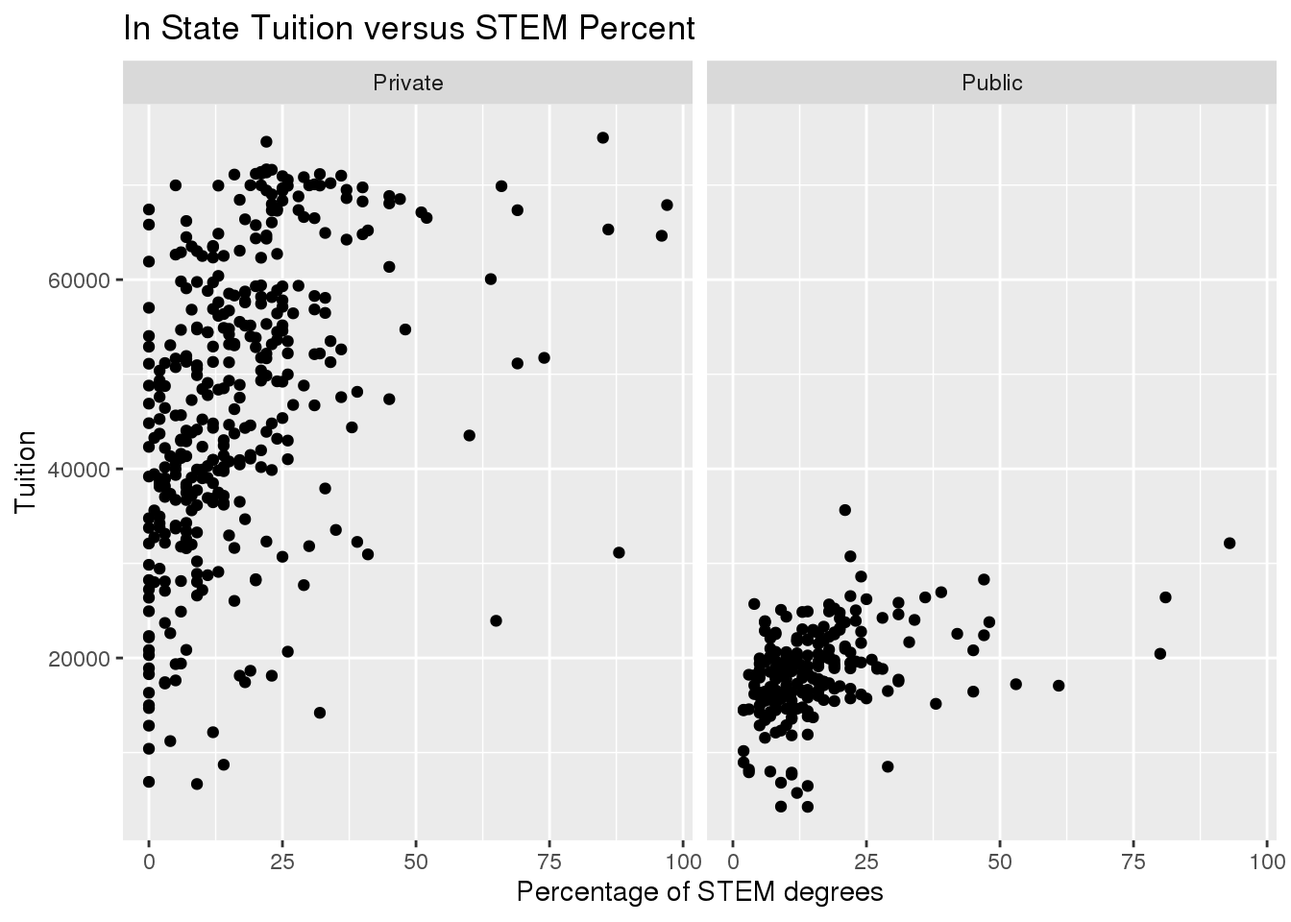
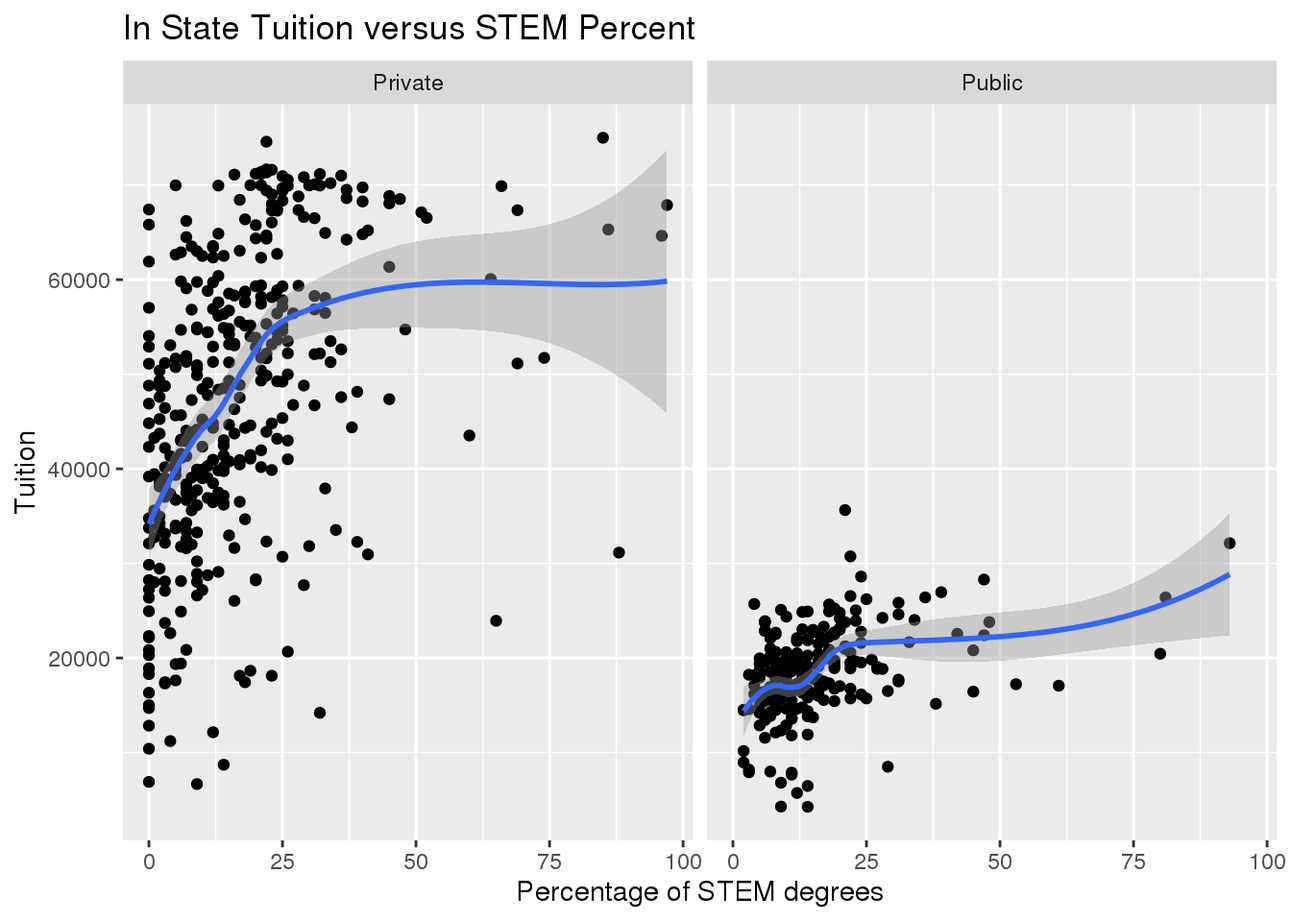
fixed spelling errors

Changed region(s): [[0.0938, 0.1562, 0.5312, 0.5938], [0.5625, 0.5625, 0.9688, 0.7812]]

diff --git a/public/2020/12/06/college-tuition-data-exploration/index.html b/public/2020/12/06/college-tuition-data-exploration/index.html
@@ -64,7 +64,7 @@
 
   <article class="article">
     
-    <span class="article-duration">12 min read</span>
+    <span class="article-duration">13 min read</span>
     
 
     <h1 class="article-title">College Tuition Data Exploration</h1>
@@ -84,7 +84,7 @@
 </div>
 <div id="introduction" class="section level2">
 <h2>Introduction</h2>
-<p>This data is Tidytuesday Data from github. However, this specific data came originally came from the U.S. Department of Education. The tuition data came from <a href="https://www.tuitiontracker.org/">TuitionTracker.org</a> and the salary data comes from <a href="https://www.payscale.com/college-salary-report/best-schools-by-state/bachelors/new-hampshire">Payscale.com</a>. Overall this data breaks down colleges and their costs while also looking at the type of institution, degree length, and salary potential. For this data I want to explore what impacts the cost of a college and the if college truly counts as an investment. To test these hypotheses I have formulate a few spefic questions to test:</p>
+<p>This data is Tidytuesday Data from github. However, this specific data came originally came from the U.S. Department of Education. The tuition data came from <a href="https://www.tuitiontracker.org/">TuitionTracker.org</a> and the salary data comes from <a href="https://www.payscale.com/college-salary-report/best-schools-by-state/bachelors/new-hampshire">Payscale.com</a>. Overall this data breaks down colleges and their costs while also looking at the type of institution, degree length, and salary potential. For this data I want to explore what impacts the cost of a college and the if college truly counts as an investment. To test these hypotheses I have formulate a few specific questions to test:</p>
 <ol style="list-style-type: decimal">
 <li><p>Is expensive tuition worth the investment?</p></li>
 <li><p>Is private school actually more expensive?</p></li>
@@ -93,11 +93,12 @@
 </div>
 <div id="exploratory-data-analysis" class="section level2">
 <h2>Exploratory Data Analysis</h2>
-<p>To explore the data I looked at all the data sets and narrowed down the two that I will be using to answer my questions. The two data sets are tuition_cost and salary_potential. First looking at the tuition_cost data. This data set has 2,973 observations with 10 variables. The name variable gives the name of the college or university. The state that the college is located in is found either by name in the state variable or by the two letter abreviation in the state_code variable. The type variable describes the type of college as either Public, Private, or For Profit. The degree_length variable classifies each as either a 2 or 4 year degree. The room_and_board variable gives the cost in dollars for room and board. Then the in_state_tuition and out_of_state_tuition gives the price in dollars for tuition. The in_state_total and out_of_state_total variables give the total cost of tuition by adding the restpective tuition to the room and board variable. The next data set that I will be using is the salary_potential.csv data. This data has 935 observations and 7 variables. The name variable gives the name of the school. The state_name variable gives the name of the state that the college is in and the rank variable gives the ranking for each school within their state. The early_career_pay variable gives the median salary (in dollars) for alumni with 0-5 years of experience. The mid_career_pay variable gives the median salary (in dollars) for alumni with 10 or more years of experience. The make_world_better_percent variable tells the percentage of alumni that say that their work makes the world a better place. Finally the stem_percent variable gives the percentage of degrees awarded in STEM fields.</p>
-<p>While exploring these data sets I noticed that there is a split between the total cost and tuition rates in the tuiton_cost data. The total cost gives the tuition plus the expenses for room and board. Another key fact about the data set is the fact that it gives different values for in state or out of state students. Consistently the cost for out of state students is higher than the cost for in state students. This trend can be shown in the figure below.</p>
+<p>To explore the data I looked at all the data sets and narrowed down the two that I will be using to answer my questions. The two data sets are tuition_cost and salary_potential. First looking at the tuition_cost data. This data set has 2,973 observations with 10 variables. The name variable gives the name of the college or university. The state that the college is located in is found either by name in the state variable or by the two letter abbreviation in the state_code variable. The type variable describes the type of college as either Public, Private, or For Profit. For profit refers to schools that sell education for profit. Because most of the trends I am concerned just relate to public versus private I will filter out these schools. The degree_length variable classifies each as either a 2 or 4 year degree. The room_and_board variable gives the cost in dollars for room and board. Then the in_state_tuition and out_of_state_tuition gives the price in dollars for tuition. The in_state_total and out_of_state_total variables give the total cost of tuition by adding the respective tuition to the room and board variable. The next data set that I will be using is the salary_potential.csv data. This data has 935 observations and 7 variables. The name variable gives the name of the school. The state_name variable gives the name of the state that the college is in and the rank variable gives the ranking for each school within their state. The early_career_pay variable gives the median salary (in dollars) for alumni with 0-5 years of experience. The mid_career_pay variable gives the median salary (in dollars) for alumni with 10 or more years of experience. The make_world_better_percent variable tells the percentage of alumni that say that their work makes the world a better place. Finally the stem_percent variable gives the percentage of degrees awarded in STEM fields.</p>
+<p>While exploring these data sets I noticed that there is a split between the total cost and tuition rates in the tuition_cost data. The total cost gives the tuition plus the expenses for room and board. Another key fact about the data set is the fact that it gives different values for in state or out of state students. Consistently the cost for out of state students is higher than the cost for in state students. This trend can be shown in the figure below.</p>
 <pre class="r"><code>library(tidyverse)
 library(ggplot2)
 library(tidytuesdayR)
+
 
 tuition_cost %&gt;%
   filter(type == &quot;Private&quot; | type == &quot;Public&quot;) %&gt;%
@@ -106,7 +107,7 @@ ggplot(aes(x = in_state_total, y = out_of_state_total)) +
   labs(x = &quot;In State Total Cost(USD)&quot;, y = &quot;Out of State Total Cost (USD)&quot;, title = &quot;In State versus Out of State Total College Costs&quot;) +
   facet_wrap(~type)</code></pre>
 <p><img src="index_files/figure-html/unnamed-chunk-2-1.png" width="672" /></p>
-<p>As shown in the data visualizations for Public Colleges, the relationship between in state and out of state total costs is directly related, yet the spatial distribution also shows that in state tuition is always less expensive than the out of state costs for the same universities. Looking at the Private Colleges the linear relationship following the line y = x depicts the fact that for private colleges the in state and out of state costs were identical. This trend applys to all data points except for one. As seen in the one data point there is one private school that has different costs for in state and out of state students. Because the difference is between the in state and out of state tuition for this college is not vastly difference (the cost for attending as an out of state student is $5184 more) I do not think that it will greatly impact the results of my analyses, however it is important to note.</p>
+<p>As shown in the data visualizations for Public Colleges, the relationship between in state and out of state total costs is directly related, yet the spatial distribution also shows that in state tuition is always less expensive than the out of state costs for the same universities. Looking at the Private Colleges the linear relationship following the line y = x depicts the fact that for private colleges the in state and out of state costs were identical. This trend applies to all data points except for one. As seen in the one data point there is one private school that has different costs for in state and out of state students. Because the difference is between the in state and out of state tuition for this college is not vastly difference (the cost for attending as an out of state student is $5184 more), it is not an outlier and I do not think that it will greatly impact the results of my analyses, however it is important to note.</p>
 <pre class="r"><code>library(tidyverse)
 library(tidytuesdayR)
 tuition_cost %&gt;%
@@ -127,7 +128,7 @@ tuition_cost %&gt;%
 <div id="question-1" class="section level1">
 <h1>Question 1</h1>
 <p>Is expensive tuition worth the investment? To find this out I will analyze the relationship between tuition and salary potential. To see the relationship I will use data visualization (like scatter plots) too see the general trend while also using additional visualizations to see the relationship for certain types of colleges.</p>
-<p>Because the salary potential data has less observations, I will use salary potential with a left join to tuition cost so that all there are not any NA values. Because there are different values of tuition cost for in state versus out of state students I am going to do two analyses, 1 for each. I am choosing to do this becuase the value of tuition cost may change depending on whether or not the student receives in state or out of state tuition and I will also differentiate between early career pay and mid career pay.</p>
+<p>Because the salary potential data has less observations, I will use salary potential with a left join to tuition cost so that all there are not any ‘NA’ values. Because there are different values of tuition cost for in state versus out of state students I am going to do two analyses, 1 for each. I am choosing to do this because the value of tuition cost may change depending on whether or not the student receives in state or out of state tuition and I will also differentiate between early career pay and mid career pay.</p>
 <p>As examined in the exploratory data analysis section, the cost of colleges depends greatly on whether or not the student is in-state or out of state and whether or not the student attends a public or private college. Because these options do significantly impact the cost of tuition they subsequently have a large impact on determining whether the investment is worth it.</p>
 <pre class="r"><code> salary_potential %&gt;%
   rename(state = state_name) %&gt;%
@@ -181,8 +182,8 @@ tuition_cost %&gt;%
 </div>
 <div id="question-2" class="section level1">
 <h1>Question 2</h1>
-<p>Private schools have a specific repution: elitist and expensive. And while many private schools have become more welcoming over time a question remains: is private school actually more expensive? To do this I will compare calculate group-level statistics. Based on these statistics I will also create supportive visualizations like box plots.</p>
-<p>For this analysis I will be using the tuition_cost.csv data.Because private school costs the same regardless of whether the attending student is a resident of that state or not (see exception below) I will also see if there is a difference in the result of private school being more expensive compared to in state or out of state tuition for public schools. I will divide the data between private and public school for total cost. There is one data point that must be noted, the Salish Kootenai College is the only private college in this data set that has different tuition rates for in state versus out of state students, as shown above. Because the comparison between private schools versus in state and private versus out of state tuition is calculated independently this data point will not skew the results. However it must be noted as an outlier in terms of form.</p>
+<p>Private schools have a specific reputation: elitist and expensive. And while many private schools have become more welcoming over time a question remains: is private school actually more expensive? To do this I will compare calculate group-level statistics. Based on these statistics I will also create supportive visualizations like box plots.</p>
+<p>For this analysis I will be using the tuition_cost.csv data.Because private school costs the same regardless of whether the attending student is a resident of that state or not (see exception below) I will also see if there is a difference in the result of private school being more expensive compared to in state or out of state tuition for public schools. I will divide the data between private and public school for total cost. There is one data point that must be noted, the Salish Kootenai College is the only private college in this data set that has different tuition rates for in state versus out of state students, as shown above. Because the comparison between private schools versus in state and private versus out of state tuition is calculated independently this data point will not skew the results. However it must be noted as different in terms of form.</p>
 <pre class="r"><code>## compare the mean and median for the cost of private versus in state tuition and out of state tuition totals
 tuition_cost %&gt;%
   filter(type == &quot;Private&quot; | type == &quot;Public&quot;) %&gt;%
@@ -217,21 +218,25 @@ tuition_cost %&gt;%
   inner_join(tuition_cost, by = c(&quot;name&quot;, &quot;state&quot;)) %&gt;%
   ggplot(aes(x = stem_percent, y = in_state_total)) +
   geom_point() +
+  geom_smooth(model = &quot;lm&quot;) +
   labs(x = &quot;Percentage of STEM degrees&quot;, y = &quot;Tuition&quot;, title = &quot;In State Tuition versus STEM Percent&quot;) +
   facet_wrap(~type)</code></pre>
+<pre><code>## Warning: Ignoring unknown parameters: model</code></pre>
 <p><img src="index_files/figure-html/unnamed-chunk-6-1.png" width="672" /></p>
 <pre class="r"><code>salary_potential %&gt;%
   rename(state = state_name) %&gt;%
   inner_join(tuition_cost, by = c(&quot;name&quot;, &quot;state&quot;)) %&gt;%
   ggplot(aes(x = stem_percent, y = out_of_state_total)) +
   geom_point() +
+  geom_smooth(model = &quot;lm&quot;) +
   labs(x = &quot;Percentage of STEM degrees&quot;, y = &quot;Tuition&quot;, title = &quot;Out of State Tuition versus STEM Percent&quot;) +
   facet_wrap(~type)</code></pre>
+<pre><code>## Warning: Ignoring unknown parameters: model</code></pre>
 <p><img src="index_files/figure-html/unnamed-chunk-6-2.png" width="672" /></p>
-<p>To further analyze this relationship I sectioned the data into 10 groups based on the STEM percents (the first group held colleges that had a STEM percent of 0-10, the next 10-20, and so on). Based on the comparisons between groupsit is clear to see that up to a point, the higher STEM percentages means higher tuition. For public colleges once the STEM percentage reaches 30, the out of state tuition cost for colleges with higher STEM percentages are not higher and once the STEM percentage reaches 60, the in state tuition cost for colleges with higher STEM percentages are not higher. For private schools once the STEM percentage reaches seventy the tuition costs for colleges with higher STEM percentages actually decreases. While there are exceptions early in the data this is most likely due to the fact that there are colleges that are very expesive and specialize in non STEM degrees (such as art schools).</p>
+<p>To further analyze this relationship I sectioned the data into 10 groups based on the STEM percents (the first group held colleges that had a STEM percent of 0-10, the next 10-20, and so on). Based on the comparisons between groups it is clear to see that up to a point, the higher STEM percentages means higher tuition. For public colleges once the STEM percentage reaches 30, the out of state tuition cost for colleges with higher STEM percentages are not higher and once the STEM percentage reaches 60, the in state tuition cost for colleges with higher STEM percentages are not higher. For private schools once the STEM percentage reaches seventy the tuition costs for colleges with higher STEM percentages actually decreases. While these numbers come from statistical analysis the trend line shows that while the slope line (the relation between tuition and percentage of STEM degrees) is very steep at the start, it does flatten out. While there are exceptions early in the data this is most likely due to the fact that there are colleges that are very expensive and specialize in non STEM degrees (such as art schools).</p>
 <div id="conclusion" class="section level2">
 <h2>Conclusion</h2>
-<p>These analyses help to explain what characteristics make certain colleges more expensive than others. Overall based on the results of my studies it is clear to see that up to a point, STEM does make a college more expensive. Logically this makes sense as the equipment and infrastruscture needed to support large amounts of STEM students is expensive. Another characteristic that makes schools more expensive is whether or not the school is public or private. Private colleges do not receive government funding so it is reasonable that they are more expensive. However one constraint in my analyses is the amount of data present. The data I used is a sample of the true population of colleges across the country. Additonally, college tuition prices change year to year so while the trends of these analyses may stay constant, the actual values will fluctuate, which could impact my results of private schools being more expensive than public schools.Although private schools on average appear to be more expensive than public schools, the other part of my analysis may justify it. Based on the visualization, it is clear to see that the more expensive schools tend to have their students receive higher salaries early and later on in their careers.</p>
+<p>These analyses help to explain what characteristics make certain colleges more expensive than others. Overall based on the results of my studies it is clear to see that up to a point, STEM does make a college more expensive. Logically this makes sense as the equipment and infrastructure needed to support large amounts of STEM students is expensive. Another characteristic that makes schools more expensive is whether or not the school is public or private. Private colleges do not receive government funding so it is reasonable that they are more expensive. However one constraint in my analyses is the amount of data present. The data I used is a sample of the true population of colleges across the country. Additionally, college tuition prices change year to year so while the trends of these analyses may stay constant, the actual values will fluctuate, which could impact my results of private schools being more expensive than public schools.Although private schools on average appear to be more expensive than public schools, the other part of my analysis may justify it. Based on the visualization, it is clear to see that the more expensive schools tend to have their students receive higher salaries early and later on in their careers.</p>
 <p>To further explore these trends, there are two routes. One would be to compare the results of my analyses across different years. Looking backwards and performing the same analyses in future years to see if the trends outlined above hold constant. Another route to take would be to look internationally. All of the data in this data was for the United States and it would be interesting to see if there are international trends across all colleges or if certain trends from the United States match other countries.</p>
 </div>
 </div>

diff --git a/content/post/2020-12-06-college-tuition-data-exploration/index.html b/content/post/2020-12-06-college-tuition-data-exploration/index.html
@@ -16,7 +16,7 @@ tags: []
 </div>
 <div id="introduction" class="section level2">
 <h2>Introduction</h2>
-<p>This data is Tidytuesday Data from github. However, this specific data came originally came from the U.S. Department of Education. The tuition data came from <a href="https://www.tuitiontracker.org/">TuitionTracker.org</a> and the salary data comes from <a href="https://www.payscale.com/college-salary-report/best-schools-by-state/bachelors/new-hampshire">Payscale.com</a>. Overall this data breaks down colleges and their costs while also looking at the type of institution, degree length, and salary potential. For this data I want to explore what impacts the cost of a college and the if college truly counts as an investment. To test these hypotheses I have formulate a few spefic questions to test:</p>
+<p>This data is Tidytuesday Data from github. However, this specific data came originally came from the U.S. Department of Education. The tuition data came from <a href="https://www.tuitiontracker.org/">TuitionTracker.org</a> and the salary data comes from <a href="https://www.payscale.com/college-salary-report/best-schools-by-state/bachelors/new-hampshire">Payscale.com</a>. Overall this data breaks down colleges and their costs while also looking at the type of institution, degree length, and salary potential. For this data I want to explore what impacts the cost of a college and the if college truly counts as an investment. To test these hypotheses I have formulate a few specific questions to test:</p>
 <ol style="list-style-type: decimal">
 <li><p>Is expensive tuition worth the investment?</p></li>
 <li><p>Is private school actually more expensive?</p></li>
@@ -25,11 +25,12 @@ tags: []
 </div>
 <div id="exploratory-data-analysis" class="section level2">
 <h2>Exploratory Data Analysis</h2>
-<p>To explore the data I looked at all the data sets and narrowed down the two that I will be using to answer my questions. The two data sets are tuition_cost and salary_potential. First looking at the tuition_cost data. This data set has 2,973 observations with 10 variables. The name variable gives the name of the college or university. The state that the college is located in is found either by name in the state variable or by the two letter abreviation in the state_code variable. The type variable describes the type of college as either Public, Private, or For Profit. The degree_length variable classifies each as either a 2 or 4 year degree. The room_and_board variable gives the cost in dollars for room and board. Then the in_state_tuition and out_of_state_tuition gives the price in dollars for tuition. The in_state_total and out_of_state_total variables give the total cost of tuition by adding the restpective tuition to the room and board variable. The next data set that I will be using is the salary_potential.csv data. This data has 935 observations and 7 variables. The name variable gives the name of the school. The state_name variable gives the name of the state that the college is in and the rank variable gives the ranking for each school within their state. The early_career_pay variable gives the median salary (in dollars) for alumni with 0-5 years of experience. The mid_career_pay variable gives the median salary (in dollars) for alumni with 10 or more years of experience. The make_world_better_percent variable tells the percentage of alumni that say that their work makes the world a better place. Finally the stem_percent variable gives the percentage of degrees awarded in STEM fields.</p>
-<p>While exploring these data sets I noticed that there is a split between the total cost and tuition rates in the tuiton_cost data. The total cost gives the tuition plus the expenses for room and board. Another key fact about the data set is the fact that it gives different values for in state or out of state students. Consistently the cost for out of state students is higher than the cost for in state students. This trend can be shown in the figure below.</p>
+<p>To explore the data I looked at all the data sets and narrowed down the two that I will be using to answer my questions. The two data sets are tuition_cost and salary_potential. First looking at the tuition_cost data. This data set has 2,973 observations with 10 variables. The name variable gives the name of the college or university. The state that the college is located in is found either by name in the state variable or by the two letter abbreviation in the state_code variable. The type variable describes the type of college as either Public, Private, or For Profit. For profit refers to schools that sell education for profit. Because most of the trends I am concerned just relate to public versus private I will filter out these schools. The degree_length variable classifies each as either a 2 or 4 year degree. The room_and_board variable gives the cost in dollars for room and board. Then the in_state_tuition and out_of_state_tuition gives the price in dollars for tuition. The in_state_total and out_of_state_total variables give the total cost of tuition by adding the respective tuition to the room and board variable. The next data set that I will be using is the salary_potential.csv data. This data has 935 observations and 7 variables. The name variable gives the name of the school. The state_name variable gives the name of the state that the college is in and the rank variable gives the ranking for each school within their state. The early_career_pay variable gives the median salary (in dollars) for alumni with 0-5 years of experience. The mid_career_pay variable gives the median salary (in dollars) for alumni with 10 or more years of experience. The make_world_better_percent variable tells the percentage of alumni that say that their work makes the world a better place. Finally the stem_percent variable gives the percentage of degrees awarded in STEM fields.</p>
+<p>While exploring these data sets I noticed that there is a split between the total cost and tuition rates in the tuition_cost data. The total cost gives the tuition plus the expenses for room and board. Another key fact about the data set is the fact that it gives different values for in state or out of state students. Consistently the cost for out of state students is higher than the cost for in state students. This trend can be shown in the figure below.</p>
 <pre class="r"><code>library(tidyverse)
 library(ggplot2)
 library(tidytuesdayR)
+
 
 tuition_cost %&gt;%
   filter(type == &quot;Private&quot; | type == &quot;Public&quot;) %&gt;%
@@ -38,7 +39,7 @@ ggplot(aes(x = in_state_total, y = out_of_state_total)) +
   labs(x = &quot;In State Total Cost(USD)&quot;, y = &quot;Out of State Total Cost (USD)&quot;, title = &quot;In State versus Out of State Total College Costs&quot;) +
   facet_wrap(~type)</code></pre>
 <p><img src="index_files/figure-html/unnamed-chunk-2-1.png" width="672" /></p>
-<p>As shown in the data visualizations for Public Colleges, the relationship between in state and out of state total costs is directly related, yet the spatial distribution also shows that in state tuition is always less expensive than the out of state costs for the same universities. Looking at the Private Colleges the linear relationship following the line y = x depicts the fact that for private colleges the in state and out of state costs were identical. This trend applys to all data points except for one. As seen in the one data point there is one private school that has different costs for in state and out of state students. Because the difference is between the in state and out of state tuition for this college is not vastly difference (the cost for attending as an out of state student is $5184 more) I do not think that it will greatly impact the results of my analyses, however it is important to note.</p>
+<p>As shown in the data visualizations for Public Colleges, the relationship between in state and out of state total costs is directly related, yet the spatial distribution also shows that in state tuition is always less expensive than the out of state costs for the same universities. Looking at the Private Colleges the linear relationship following the line y = x depicts the fact that for private colleges the in state and out of state costs were identical. This trend applies to all data points except for one. As seen in the one data point there is one private school that has different costs for in state and out of state students. Because the difference is between the in state and out of state tuition for this college is not vastly difference (the cost for attending as an out of state student is $5184 more), it is not an outlier and I do not think that it will greatly impact the results of my analyses, however it is important to note.</p>
 <pre class="r"><code>library(tidyverse)
 library(tidytuesdayR)
 tuition_cost %&gt;%
@@ -59,7 +60,7 @@ tuition_cost %&gt;%
 <div id="question-1" class="section level1">
 <h1>Question 1</h1>
 <p>Is expensive tuition worth the investment? To find this out I will analyze the relationship between tuition and salary potential. To see the relationship I will use data visualization (like scatter plots) too see the general trend while also using additional visualizations to see the relationship for certain types of colleges.</p>
-<p>Because the salary potential data has less observations, I will use salary potential with a left join to tuition cost so that all there are not any NA values. Because there are different values of tuition cost for in state versus out of state students I am going to do two analyses, 1 for each. I am choosing to do this becuase the value of tuition cost may change depending on whether or not the student receives in state or out of state tuition and I will also differentiate between early career pay and mid career pay.</p>
+<p>Because the salary potential data has less observations, I will use salary potential with a left join to tuition cost so that all there are not any ‘NA’ values. Because there are different values of tuition cost for in state versus out of state students I am going to do two analyses, 1 for each. I am choosing to do this because the value of tuition cost may change depending on whether or not the student receives in state or out of state tuition and I will also differentiate between early career pay and mid career pay.</p>
 <p>As examined in the exploratory data analysis section, the cost of colleges depends greatly on whether or not the student is in-state or out of state and whether or not the student attends a public or private college. Because these options do significantly impact the cost of tuition they subsequently have a large impact on determining whether the investment is worth it.</p>
 <pre class="r"><code> salary_potential %&gt;%
   rename(state = state_name) %&gt;%
@@ -113,8 +114,8 @@ tuition_cost %&gt;%
 </div>
 <div id="question-2" class="section level1">
 <h1>Question 2</h1>
-<p>Private schools have a specific repution: elitist and expensive. And while many private schools have become more welcoming over time a question remains: is private school actually more expensive? To do this I will compare calculate group-level statistics. Based on these statistics I will also create supportive visualizations like box plots.</p>
-<p>For this analysis I will be using the tuition_cost.csv data.Because private school costs the same regardless of whether the attending student is a resident of that state or not (see exception below) I will also see if there is a difference in the result of private school being more expensive compared to in state or out of state tuition for public schools. I will divide the data between private and public school for total cost. There is one data point that must be noted, the Salish Kootenai College is the only private college in this data set that has different tuition rates for in state versus out of state students, as shown above. Because the comparison between private schools versus in state and private versus out of state tuition is calculated independently this data point will not skew the results. However it must be noted as an outlier in terms of form.</p>
+<p>Private schools have a specific reputation: elitist and expensive. And while many private schools have become more welcoming over time a question remains: is private school actually more expensive? To do this I will compare calculate group-level statistics. Based on these statistics I will also create supportive visualizations like box plots.</p>
+<p>For this analysis I will be using the tuition_cost.csv data.Because private school costs the same regardless of whether the attending student is a resident of that state or not (see exception below) I will also see if there is a difference in the result of private school being more expensive compared to in state or out of state tuition for public schools. I will divide the data between private and public school for total cost. There is one data point that must be noted, the Salish Kootenai College is the only private college in this data set that has different tuition rates for in state versus out of state students, as shown above. Because the comparison between private schools versus in state and private versus out of state tuition is calculated independently this data point will not skew the results. However it must be noted as different in terms of form.</p>
 <pre class="r"><code>## compare the mean and median for the cost of private versus in state tuition and out of state tuition totals
 tuition_cost %&gt;%
   filter(type == &quot;Private&quot; | type == &quot;Public&quot;) %&gt;%
@@ -149,21 +150,25 @@ tuition_cost %&gt;%
   inner_join(tuition_cost, by = c(&quot;name&quot;, &quot;state&quot;)) %&gt;%
   ggplot(aes(x = stem_percent, y = in_state_total)) +
   geom_point() +
+  geom_smooth(model = &quot;lm&quot;) +
   labs(x = &quot;Percentage of STEM degrees&quot;, y = &quot;Tuition&quot;, title = &quot;In State Tuition versus STEM Percent&quot;) +
   facet_wrap(~type)</code></pre>
+<pre><code>## Warning: Ignoring unknown parameters: model</code></pre>
 <p><img src="index_files/figure-html/unnamed-chunk-6-1.png" width="672" /></p>
 <pre class="r"><code>salary_potential %&gt;%
   rename(state = state_name) %&gt;%
   inner_join(tuition_cost, by = c(&quot;name&quot;, &quot;state&quot;)) %&gt;%
   ggplot(aes(x = stem_percent, y = out_of_state_total)) +
   geom_point() +
+  geom_smooth(model = &quot;lm&quot;) +
   labs(x = &quot;Percentage of STEM degrees&quot;, y = &quot;Tuition&quot;, title = &quot;Out of State Tuition versus STEM Percent&quot;) +
   facet_wrap(~type)</code></pre>
+<pre><code>## Warning: Ignoring unknown parameters: model</code></pre>
 <p><img src="index_files/figure-html/unnamed-chunk-6-2.png" width="672" /></p>
-<p>To further analyze this relationship I sectioned the data into 10 groups based on the STEM percents (the first group held colleges that had a STEM percent of 0-10, the next 10-20, and so on). Based on the comparisons between groupsit is clear to see that up to a point, the higher STEM percentages means higher tuition. For public colleges once the STEM percentage reaches 30, the out of state tuition cost for colleges with higher STEM percentages are not higher and once the STEM percentage reaches 60, the in state tuition cost for colleges with higher STEM percentages are not higher. For private schools once the STEM percentage reaches seventy the tuition costs for colleges with higher STEM percentages actually decreases. While there are exceptions early in the data this is most likely due to the fact that there are colleges that are very expesive and specialize in non STEM degrees (such as art schools).</p>
+<p>To further analyze this relationship I sectioned the data into 10 groups based on the STEM percents (the first group held colleges that had a STEM percent of 0-10, the next 10-20, and so on). Based on the comparisons between groups it is clear to see that up to a point, the higher STEM percentages means higher tuition. For public colleges once the STEM percentage reaches 30, the out of state tuition cost for colleges with higher STEM percentages are not higher and once the STEM percentage reaches 60, the in state tuition cost for colleges with higher STEM percentages are not higher. For private schools once the STEM percentage reaches seventy the tuition costs for colleges with higher STEM percentages actually decreases. While these numbers come from statistical analysis the trend line shows that while the slope line (the relation between tuition and percentage of STEM degrees) is very steep at the start, it does flatten out. While there are exceptions early in the data this is most likely due to the fact that there are colleges that are very expensive and specialize in non STEM degrees (such as art schools).</p>
 <div id="conclusion" class="section level2">
 <h2>Conclusion</h2>
-<p>These analyses help to explain what characteristics make certain colleges more expensive than others. Overall based on the results of my studies it is clear to see that up to a point, STEM does make a college more expensive. Logically this makes sense as the equipment and infrastruscture needed to support large amounts of STEM students is expensive. Another characteristic that makes schools more expensive is whether or not the school is public or private. Private colleges do not receive government funding so it is reasonable that they are more expensive. However one constraint in my analyses is the amount of data present. The data I used is a sample of the true population of colleges across the country. Additonally, college tuition prices change year to year so while the trends of these analyses may stay constant, the actual values will fluctuate, which could impact my results of private schools being more expensive than public schools.Although private schools on average appear to be more expensive than public schools, the other part of my analysis may justify it. Based on the visualization, it is clear to see that the more expensive schools tend to have their students receive higher salaries early and later on in their careers.</p>
+<p>These analyses help to explain what characteristics make certain colleges more expensive than others. Overall based on the results of my studies it is clear to see that up to a point, STEM does make a college more expensive. Logically this makes sense as the equipment and infrastructure needed to support large amounts of STEM students is expensive. Another characteristic that makes schools more expensive is whether or not the school is public or private. Private colleges do not receive government funding so it is reasonable that they are more expensive. However one constraint in my analyses is the amount of data present. The data I used is a sample of the true population of colleges across the country. Additionally, college tuition prices change year to year so while the trends of these analyses may stay constant, the actual values will fluctuate, which could impact my results of private schools being more expensive than public schools.Although private schools on average appear to be more expensive than public schools, the other part of my analysis may justify it. Based on the visualization, it is clear to see that the more expensive schools tend to have their students receive higher salaries early and later on in their careers.</p>
 <p>To further explore these trends, there are two routes. One would be to compare the results of my analyses across different years. Looking backwards and performing the same analyses in future years to see if the trends outlined above hold constant. Another route to take would be to look internationally. All of the data in this data was for the United States and it would be interesting to see if there are international trends across all colleges or if certain trends from the United States match other countries.</p>
 </div>
 </div>
